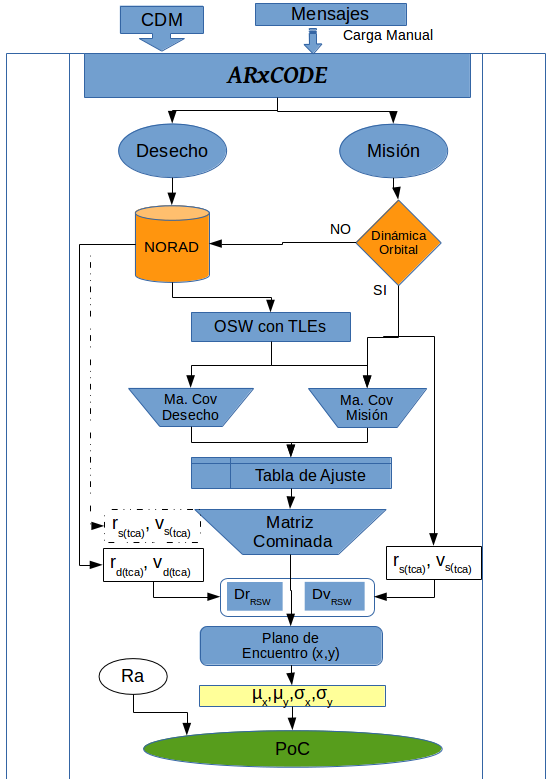
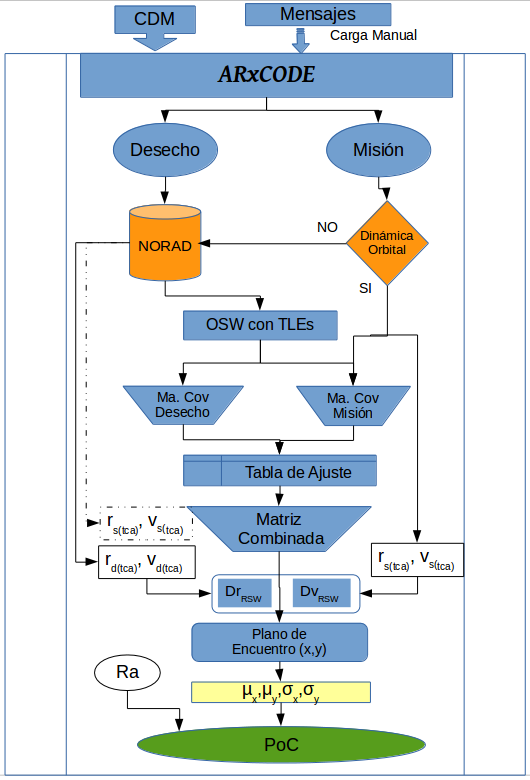
Correcciones a los capitulos Introduccion, marco teorico y Resultados.
* Intro: agregue seccion de estructura
* Marco Teorico: solo modifique el grafico del flujomain
* Resultados: referencie todas las tablas

Changed region(s): [[0.0, 0.0, 0.9962, 1.0], [0.2113, 0.0, 0.3925, 0.0616]]

diff --git a/TESIS/secciones/Resultados.tex b/TESIS/secciones/Resultados.tex
@@ -74,8 +74,8 @@ Epoca & x [km] & y [km] & z [km] & vx $[km/s]$ & vy $[km/s]$ & vz $[km/s]$\\
 \section{Estudio de errores de TLE con datos hist\'oricos}
 
 El trabajo de Osweiler publica los resultados de las matrices de covarianza generadas, para 6 misiones y 8 ventanas de tiempo.\\
-Para la validaci\'on se tomaron dos escenarios muy diferentes en cuanto a la altura del sat\'elite: LAGEOS-1 a m\'as de $5000 km$ y ICESAT a $600 km$.
-Se presentan a continuaci\'on las tablas con los resultados comparativos, entre los valores publicados y los valores obtenidos por ARxCODE para una unica ventana temporal.\\
+Para la validaci\'on se tomaron dos escenarios muy diferentes en cuanto a la altura del sat\'elite: LAGEOS-1 a m\'as de $5000$ km y ICESAT a $600 $ km, Tabla \ref{tab:satescenarios}.
+Se presentan a continuaci\'on las tablas con los resultados comparativos, entre los valores publicados (Tablas \ref{tab:icesatOSW} y \ref{tab:lageosOSW}) y los valores obtenidos por ARxCODE (Tablas \ref{tab:icesatARX} y \ref{tab:lageosARX})para una \'unica ventana temporal.\\
 Puede apreciarse, que los errores son muy grandes para el ICESAT, de baja altura, que se ve m\'as perturbado por el efecto atmosf\'erico, que no es modelable con precisión; mientras que el LAGEOS-1 presenta errores muchos \'ordenes de magnitud menor.\\
 
 \begin{table}
@@ -88,7 +88,8 @@ Puede apreciarse, que los errores son muy grandes para el ICESAT, de baja altura
       ICESAT & 27642 & $600$ & $0.0002 - 0.001$ & $94$ & var\'ia \\
       \hline
       \end{tabular}
-    \caption[Sat\'elites de Estudio]{Resumen de las caracter\'isticas de los sat\'elites a analizar}
+    \caption[Sat\'elites de Estudio]{Resumen de las caracter\'isticas de los sat\'elites a analizar.}
+    \label{tab:satescenarios}
 \end{table}
 
 \subsection*{Tablas comparativas ICESAT}
@@ -108,7 +109,7 @@ Puede apreciarse, que los errores son muy grandes para el ICESAT, de baja altura
     \hline
     \end{tabular}}
       \caption{Matriz de Covarianza de la Bibliograf\'ia \citep{osweiler} - Sat\'elite ICESAT en la ventana temporal del 1-Mar-03 al 16-Mar-03}
-      \label{tab:singlebest}
+      \label{tab:icesatOSW}
     \end{minipage}
     \begin{minipage}[t]{0.48\hsize}\centering
     \resizebox{8cm}{!}{
@@ -122,7 +123,7 @@ Puede apreciarse, que los errores son muy grandes para el ICESAT, de baja altura
       \hline
       \end{tabular}}
         \caption{Matriz de Covarianza que produce ARxCODE - Sat\'elite ICESAT en la ventana temporal del 1-Mar-03 al 16-Mar-03}
-        \label{tab:twobest}
+        \label{tab:icesatARX}
     \end{minipage}
     \hfill
 }}
@@ -140,6 +141,7 @@ Puede apreciarse, que los errores son muy grandes para el ICESAT, de baja altura
  \hline
  \end{tabular}
  \caption{Diferencias de los valores calculados por ARxCODE respecto a los valores publicados en el trabajo de Osweiler \citep{osweiler}}
+ \label{tab:icesatcomp}
 \end{table}
 
 
@@ -149,21 +151,6 @@ Puede apreciarse, que los errores son muy grandes para el ICESAT, de baja altura
 \begin{table}[!h]
 \centering
 \makebox[0pt][c]{\parbox{1.0\textwidth}{%
-    \begin{minipage}[b]{0.48\hsize}\centering
-     \resizebox{8cm}{!}{
-    \begin{tabular}{cccc}
-      \hline
-    Vent 1 & $R_{v}$ (km) & $R_{n}$ (km) & $R_{c}$ (km)\\
-    \hline
-    $R_{v}$ & 0.378619 & -0.0343598 & 0.02771527 \\
-    $R_{n}$ & -0.0343598 &  0.004002 & -0.0027171 \\
-    $R_{c}$ & 0.02771527 & -0.0027171 &  0.0084302 \\
-    \hline
-    \end{tabular}}
-      \caption{Matriz de Covarianza que produce ARxCODE - Sat\'elite LAGEOS-1 en la ventana temporal del 1-Mar-03 al 16-Mar-03}
-      \label{tab:singlebest}
-    \end{minipage}
-    \hfill
     \begin{minipage}[b]{0.48\hsize}\centering
     \resizebox{8cm}{!}{
       \begin{tabular}{cccc}
@@ -176,8 +163,23 @@ Puede apreciarse, que los errores son muy grandes para el ICESAT, de baja altura
       \hline
       \end{tabular}}
         \caption{Matriz de Covarianza de la Bibliograf\'ia \citep{osweiler}- Sat\'elite LAGEOS-1 en la ventana temporal del 1-Mar-03 al 16-Mar-03}
-        \label{tab:twobest}
+        \label{tab:lageosOSW}
     \end{minipage}
+    \hfill
+    \begin{minipage}[b]{0.48\hsize}\centering
+     \resizebox{7.5cm}{!}{
+    \begin{tabular}{cccc}
+      \hline
+    Vent 1 & $R_{v}$ (km) & $R_{n}$ (km) & $R_{c}$ (km)\\
+    \hline
+    $R_{v}$ & 0.378619 & -0.0343598 & 0.02771527 \\
+    $R_{n}$ & -0.0343598 &  0.004002 & -0.0027171 \\
+    $R_{c}$ & 0.02771527 & -0.0027171 &  0.0084302 \\
+    \hline
+    \end{tabular}}
+      \caption{Matriz de Covarianza que produce ARxCODE - Sat\'elite LAGEOS-1 en la ventana temporal del 1-Mar-03 al 16-Mar-03}
+      \label{tab:lageosARX}
+   \end{minipage}
     \hfill
 }}
 \end{table}
@@ -194,9 +196,10 @@ Puede apreciarse, que los errores son muy grandes para el ICESAT, de baja altura
  \hline
  \end{tabular}
  \caption{Diferencias de los valores calculados por ARxCODE respecto a los valores publicados en el trabajo de Osweiler.}
+ \label{tab:lageoscomp}
 \end{table}
 
-Las diferencias que resultan en la comparaci\'on con los resultados que arroja ARxCODE, son todas menores a los metros.\\
+Las diferencias que resultan en la comparaci\'on con los resultados que arroja ARxCODE, son todas menores a los metros (Tablas \ref{tab:icesatcomp} y \ref{tab:lageoscomp}).\\
 En particular LAGEOS muestra errores menores que ICESAT, ya que al ser un sat\'elite a mayor altura, el efecto atmosf\'erico es menor y el modelo de propaci\'on, se adapta mejor.\\
 
 
@@ -242,7 +245,7 @@ Los errores que se observan en la propagaci\'on de TLE, en funci\'on de la canti
 En este estudio, puede apreciarse una clara diferencia en las cotas de los errores, siendo el sat\'elite ICESAT, de menor altura el que muestra errores mayores en un rango de -120 a 60 km, mientras que el LAGEOS, contiene las diferencias entre -2 y 1 km.\\
 No obstante, en ambos se distingue, que la componente asociada a la velocidad (V {\it{in-track}}) es la que mayor error acumula en propagaciones m\'as largas. Esto se debe a que el modelo es d\'ebil en cuanto a la perturbaci\'on que introduce la atm\'osfera, directamente vinculada a la velocidad de los objetos para el caso del ICESAT o en cuanto al modelo que describe la presi\'on de radiaci\'on solar en el caso del LAGEOS.\\
 
-Se concluye a partir de esta secci\'on, que ARxCODE implementa el m\'etodo de Osweiler y la contrucci\'on de las diferencias de pares correctamente. 
+Se concluye a partir de esta secci\'on, que ARxCODE implementa el m\'etodo de Osweiler y la construcci\'on de las diferencias de pares correctamente. 
 
 \section{Estudio de errores de TLE con efem\'erides precisas}
 \subsection*{Sistema de referencia TOD}
@@ -283,12 +286,12 @@ Las comparaciones de las propagaciones de los TLE mostraron significativas aleat
 
 \subsection*{Generaci\'on de la tabla de propagaci\'on de errores}
 
-Como se explic\'o en la Sec. \ref{subsec:errorProp}, para estimar los errores en la propagaci\'on se propone un m\'etodo que utiliza una tabla generada a partir de la estad\'istica que resulta de comparar las propagaciones de los TLE de la misi\'on operativa, con las efem\'erides precisas. Las comparaciones se hacen en el periodo de Enero a Junio del a\~no 2013, en intervalos de 1 a 6 d\'ias, con paso 1 segundo.\\
+Como se explic\'o en la Sec. \ref{subsec:errorProp}, para estimar los errores en la propagaci\'on se propone un m\'etodo que utiliza una tabla, Tab. \ref{tab:resultatabla}, generada a partir de la estad\'istica que resulta de comparar las propagaciones de los TLE de la misi\'on operativa, con las efem\'erides precisas. Las comparaciones se hacen en el periodo de Enero a Junio del a\~no 2013, en intervalos de 1 a 6 d\'ias, con paso 1 segundo.\\
 Los resultados que se encuentran, no es posible validarlos directamente. No obstante, son comparables a los que proponen \cite{flohrer2008assessment}, en la {\it{lookup table}} generada considerando todos los objetos del cat\'alogo al 01 de Enero de 2008, ver Fig. \ref{fig:flohrer}. Los valores de las desviaciones est\'andar que resultan del m\'etodo propuesto son menores casi en un orden de magnitud a las tablas gen\'ericas que publican \cite{flohrer2008assessment}, esto es de esperar, ya que los estudios de la publicaci\'on son m\'as abarcativos y gen\'ericos.\\
 
 \begin{table}[!h]
 \centering
-\caption[Tabla con los valores medios para la propagaci\'on de errores.]{Resultados finales de los valores medios de las varianzas calculadas para la propagaci\'on de errores en funci\'on de los d\'ias de propagaci\'on}
+
 \begin{tabular}{|l|c|c|c|}
 \hline \hline
 \rowcolor{yellow!35}
@@ -309,12 +312,13 @@ Los resultados que se encuentran, no es posible validarlos directamente. No obst
 6 d\'ias & 0.01524829841&0.365815954&0.1607439516\\
 \hline
 \end{tabular}
+\caption[Tabla con los valores medios para la propagaci\'on de errores.]{Resultados finales de los valores medios de las varianzas calculadas para la propagaci\'on de errores en funci\'on de los d\'ias de propagaci\'on. Autor\'ia propia.}
 \label{tab:resultatabla}
 \end{table}
 
 \begin{figure}[!h]
   \centering
-  \fbox{\includegraphics[width=0.4\textwidth]{imagenes/flohrertabla}}
+  \fbox{\includegraphics[width=0.6\textwidth]{imagenes/flohrertabla}}
   \caption{{\it{Look-up table}} [metros] de los resultados promediados del an\'alisis del cat\'ologo completo al 01 de Enero de 2008, de los errores en las coordenadas UVW, clasificados por excentricidad, inclinaci\'on y altura. Se resaltan en celeste las celdas correspondientes a la configuraci\'on de la misi\'on operativa que se utiliz\'o en este trabajo. Extra\'ido de \cite{flohrer2008assessment}}
   \label{fig:flohrer}
 \end{figure}
@@ -336,7 +340,7 @@ El c\'alculo de la PoC, implementa la expresi\'on presentada por  \cite{leichen}
 Con el objeto de verificar los c\'alculos que se realizan en el m\'odulo, se toman como datos iniciales, los valores publicados por el propio autor Lei-Chen, y se calcula la PoC, tanto para la expresi\'on anal\'itica como la integral. Para esta \'ultima se utiliza la biblioteca {\it{scipy.integrate}}  de python.
 
 De las expresiones para el c\'alculo de la PoC (Eq. \ref{eq:pocintegral} y Eq. \ref{eq:pocexpress}), se desprende que ser\'an necesarios los datos: ($\mu_{x}, \mu_{y}$), ($\sigma_{x}, \sigma_{y}$), $r_{a}$.\\
-Se tomaron los datos que utiliza Lei-Chen en el ejemplo para el caso de las \'orbitas circulares y se calcul\'o la PoC a partir de la expresi\'on expl\'isita y realizando la integral.\\
+Se tomaron los datos que utiliza Lei-Chen en el ejemplo para el caso de las \'orbitas circulares y se calcul\'o la PoC a partir de la expresi\'on expl\'icita y realizando la integral.\\
 
 \begin{minipage}[t]{0.28\textwidth}
 {\bf{Valores iniciales.}}\\
@@ -365,30 +369,32 @@ $r_{a}$ & 0.01 [km]\\
         outerlinewidth=1.25pt
     ]
 \large
+
 \begin{tabular}{|l|l|l|}
   \hline
  Te\'orico & Expresi\'on & Valor de la Integral\\
  \hline
  1.8079750e-04 & 1.8079124e-04 & 1.8071110e-04\\
  \hline
-\end{tabular} 
+\end{tabular}
+\captionof{table}{Resultados Comparativos del c\'alculo de la PoC.}
+\label{tab:poccomp}
 \end{mdframed}
 \end{minipage}
 
-
-Como se observa en el recuadro de las probabilidades de colisi\'on; las f\'ormulas implementadas coinciden con el valor de la bibliograf\'ia hasta el cuarto d\'igito significativo de la expresi\'on.\\
+\vspace{0.5cm}
+Como se observa en el recuadro de las probabilidades de colisi\'on (Tabla \ref{tab:poccomp}); las f\'ormulas implementadas coinciden con el valor de la bibliograf\'ia hasta el cuarto d\'igito significativo de la expresi\'on.\\
 
 En este punto se confirma que, una vez que se obtiene: $\mu_{x}$, $\mu_{x}$, $\sigma_{x}$, $\sigma_{y}$ y el radio de colisi\'on $r_{a}$, ya puede calcularse la PoC. 
-Ahora resta verificar, paso a paso c\'omo llegar de los inputs de ARxCODE, a estos par\'ametros de las ecuaciones. \\
+Ahora resta verificar, paso a paso c\'omo llegar de los inputs de ARxCODE, a estos par\'ametros que se introducen en de las ecuaciones. \\
 
 \subsection*{C\'alculos previos}
 
-Una vez determinadas la posici\'on relativa de los objetos en el sistema RSW o RTN en el TCA, la proyecci\'on al plano, para \'orbitas circulares, no representa mayores problemas, como se detall\'o en la Sec. \ref{subsec:pocsimp}.\\
+Una vez determinadas la posici\'on relativa de los objetos en el sistema RSW o RTN en el TCA, la proyecci\'on al plano para \'orbitas circulares, no representa mayores problemas, como se detall\'o en la Sec. \ref{subsec:pocsimp}.\\
 
 Pero es importante verificar, que a partir de las posiciones inerciales de los objetos en el TCA, las transformaciones de la distancia relativa de los mismos al sistema RSW, coincide.\\
-Para ello, vamos a utilizar las posiciones de los objetos del ejemplo de la bibliograf\'ia y transformarlas con el m\'odulo de transformaci\'on {\it{sisRic}} del paquete {\it{SistReferencia.SistdeCoordenadas}} para corroborar los resultados.
-
-Vectores de Posiciones Inerciales al momento TCA:\\
+Para ello, vamos a utilizar las posiciones de los objetos del ejemplo de la bibliograf\'ia (Tabla \ref{tab:vectejemplo}) y transformarlas con el m\'odulo de transformaci\'on {\it{sisRic}} del paquete {\it{SistReferencia.SistdeCoordenadas}} para corroborar los resultados.
+\\
 
 \begin{table}[!h]
 \centering
@@ -401,6 +407,8 @@ Obj1 & 1457.273246 &1589.568484&6814.189959&7.001731&2.439512&0.926209\\
 Obj2 & 1457.532155&1588.932671&6814.316188&3.578705&6.172896&2.200215\\
 \hline
 \end{tabular}
+\caption{Vectores de Posiciones Inerciales al momento TCA. Extra\'idos del ejemplo de la bibliograf\'ia \citep{leichen}}
+\label{tab:vectejemplo}
 \end{table}
 
 \begin{table}[!h]
@@ -416,11 +424,14 @@ ARxCODE & 0.031797& 0.462295 &0.522013
 \\
 \hline
 \end{tabular}
+\caption{Resultados comparativos de la transformaci\'on entre sistemas de referencia utilizando el m\'odulo {\it{sisRic}} de autor\'ia propia y los datos de la bibliograf\'ia \citep{leichen}.}
+\label{tab:rswcomp}
 \end{table}
 
-Estos resultados se logran en una transformaci\'on en la que se considere al Obj2 como origen de la referencia. Los mismos muestran una coincidencia del orden de las decenas de metros, aceptable para estas estimaciones.\\
+Estos resultados que se publican en la tabla \ref{tab:rswcomp}, se logran en una transformaci\'on en la que se considere al Obj2 como origen de la referencia. Los mismos muestran una coincidencia del orden de las decenas de metros, aceptable para estas estimaciones.\\
 No obstante, contando s\'olo con la informaci\'on de los vectores de posici\'on al momento del m\'aximo acercamiento, no es posible verificar el m\'etodo de Osweiler de la construcci\'on de la matriz de covarianza para este ejemplo de la bibliograf\'ia.\\
 
+\subsection*{Validaci\'on end-to-end}
 Hasta este punto, se han ido validando cada uno de los procesos por separado.\\
 Resta hacer pruebas desde el origen, es decir a partir de identificar los objetos y el TCA, correr los procesamientos de ARxCODE y obtener los resultados de la PoC.\\
 A tal fin, fue necesario conseguir registros que contuvieran la informaci\'on completa de una situaci\'on de encuentro.\\
@@ -428,6 +439,9 @@ Esto no fue posible en su totalidad. Por un lado tuvimos acceso a mails de alert
 As\'i mismo, ni los mails encontrados ni los CDM descargados, contienen informaci\'on de la PoC asociada al encuentro. \\
 
 \subsubsection*{Validaci\'on con correos electr\'onicos de alerta p\'ublicos}
+
+El proceso de validaci\'on utilizando los correos electr\'onicos obtenidos en la web, consiste de extraer de los correos los identificadores de norad de ambos objetos y el TCA asociado al encuentro. A partir de all\'i se calcula la m\'inima distancia total, o sea el m\'odulo de la misma, y  en componentes en el sistema RTN y finalmente la PoC.\\
+Dado que el TCA que se publica en los correos no tiene informaci\'on de los segundos, se realiza una primera estimaci\'on, y luego se profundiza en an\'alisis de la situaci\'on.\\
 
 Formato de los correos electr\'onicos:\\
 \begin{center}
@@ -454,7 +468,7 @@ Secondary Cross-track Error (W): 2 meters\\
 }}
 \end{center}
 
-{\bf{Nota:}} Los los correos electr\'onicos no informan los segundos del TCA. Fue necesario primero hacer una primera estimaci\'on m\'as precisa del TCA del encuetnro y luego volver a procesar incorporando los segundos. 
+{\bf{Nota:}} Los los correos electr\'onicos no informan los segundos del TCA. Fue necesario primero hacer una primera estimaci\'on m\'as precisa del TCA del encuentro y luego volver a procesar incorporando los segundos. 
 
 Listado de Mails analizados:\\
 

diff --git a/TESIS/secciones/Introduccion.tex b/TESIS/secciones/Introduccion.tex
@@ -414,4 +414,17 @@ colisiones, que se reciben de organismos internacionales de rastreo.
 \item Desarrollar un prototipo de software (ARxCODE) para el procesamiento de la informaci\'on, el manejo de las notificaciones, la visualizaci\'on del evento y la generaci\'on de reportes.
 \end{itemize}
 
+\section{Estructura del trabajo}
+
+A continuaci\'on de esta introducci\'on, en el cap\'itulo de {\bf{Marco Te\'orico}}; se describen los conceptos te\'oricos que se relacionan a la problem\'atica de las colisiones. Se detallan las distintas maneras en que se calculan las posiciones de los objetos seg\'un sean misiones operativas o desechos espaciales, los modelos de propagaci\'on, los formatos de publicaci\'on de la informaci\'on y los sistemas de referencia que utilizamos en este trabajo. En este cap\'itulo se dedica una secci\'on especial para el tratamiento de los errores en las posiciones y en las propagaciones, donde se describen el m\'etodo de Osweiler y el m\'etodo de propagaci\'on propuesto. Contin\'ua la secci\'on que contiene la informaci\'on te\'orica referida al c\'alculo de la probabilidad de colisi\'on (m\'etodo de Lei-Chen) y finalmente una secci\'on dedicada al mensaje estandarizado de alerta \ac{CDM}.
+
+En el cap\'itulo 3 de {\bf{Metodolog\'ia de Desarrollo}}, se indican las distintas fases del desarrollo incremental del prototipo de software ARxCODE    y las especificaciones correspondientes al entorno de desarrollo. 
+
+El cap\'itulo 4: {\bf{ARxCODE}}, contiene una descripci\'on detallada del prototipo de software; sus especificaciones, requerimientos, interfaces, casos de uso, arquitectura y flujo. 
+
+En el cap\'itulo de {\bf{Validaciones y Resultados}} se muestran los resultados m\'as significativos que se obtienen al utilizar el ARxCODE, y resultados intermedios que fueron necesarios para la generaci\'on de los productos finales. En cada caso se indica la fuente que se utiliz\'o para validarlos y se presentan valores comparativos en tablas o gr\'aficos. Al final del cap\'itulo se realiza un an\'alisis de los mismos. 
+
+Finalmente el cap\'itulo 6, contiene las {\bf{Conclusiones}} y el trabajo a futuro. 
+
+
 \endinput

diff --git a/TESIS/secciones/MarcoTeorico.tex b/TESIS/secciones/MarcoTeorico.tex
@@ -729,7 +729,7 @@ A diferencia de los mensajes estandarizados anteriores, como el CSM:{\it{Conjunc
 \label{fig:pagsana}
 \end{figure}
 
-\section*{Resumen}
+\section{Resumen}
 A partir de la recepci\'on de informaci\'on respecto de una posible colisi\'on, ya sea mediante un mensaje estandarizado CDM o mediante el ingreso manual, se inicia un an\'alisis de la situaci\'on.\\
 A tal fin:\\
 (Ver Fig. \ref{fig:flujomain})
